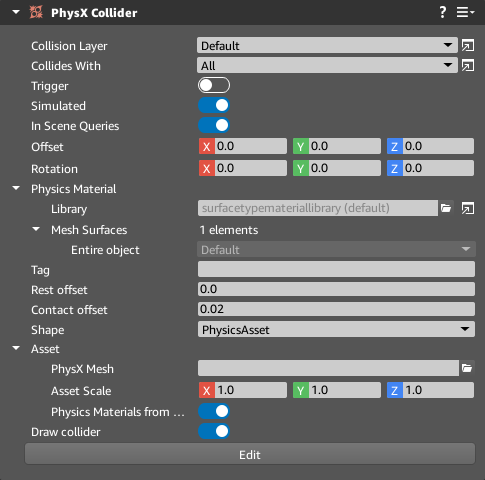
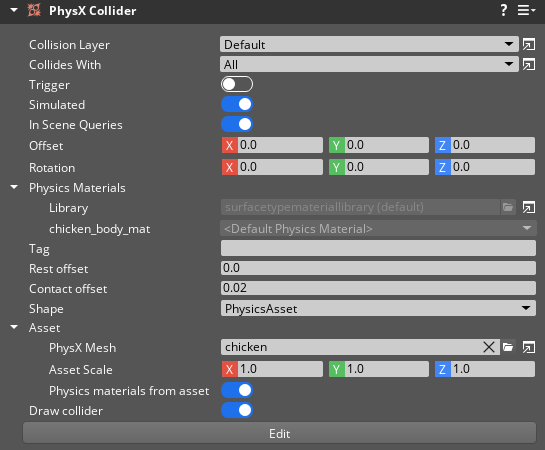
Update Physics Materials O3DE documentation

diff --git a/content/docs/user-guide/components/reference/physx-collider.md b/content/docs/user-guide/components/reference/physx-collider.md
@@ -50,11 +50,11 @@ Local offset position of the collider, relative to the entity\.
 ****Rotation****
 Local rotation of the collider about the **Offset** of the PhysX collider component\.
 
-****Physics Material \- Library****
-Set the physics material library for this collider\.
+****Library (Physics Materials)****
+The physics material library of the project\.
 
-****Physics Material \- Mesh Surfaces****
-Choose a material from the physics material library for this collider\. A collider can have multiple materials assigned\. For more information, see [Physics materials](/docs/user-guide/interactivity/physics/nvidia-physx/materials/)\.
+****Slots (Physics Materials)****
+Choose a physics material for each material of this collider\. A collider can have multiple materials assigned\. For more information, see [Physics materials](/docs/user-guide/interactivity/physics/nvidia-physx/materials/)\.
 
 ****Tag****
 Set a tag for this collider\. Tags can be used to quickly identify components in script or code\.
@@ -70,37 +70,47 @@ Shape of the collider\. A collider can be a primitive shape or a physics asset\.
 To use a primitive shape, choose **Box**, **Sphere**, or **Capsule**\. For more information, see [Primitive colliders](#primitive-colliders)\.
 To use a physics asset, choose **Physics Asset**\. For more information, see [Physics asset colliders](#physics-asset-colliders)\.
 
-****PhysX Mesh** \(Physics Asset shape\)**
+****Physics Asset shape****
+
+![\[PhysX Collider component interface, Physics Asset.\]](/images/user-guide/component/physx/physx/ui-physx-collider-A-0.png)
+
+**PhysX Mesh**
 Assign a physics asset to the collider\. For more information, see [FBX Settings PhysX export](/docs/user-guide/assets/fbx-settings/physx-export/)\.
-
-![\[PhysX Collider component interface, Sphere.\]](/images/user-guide/component/physx/physx/ui-physx-collider-A-1.png)
-
-****Radius** \(Sphere shape\)**
-Radius multiplier of the sphere collider\. The size of the sphere primitive is the **Radius** multiplied by the largest value in the **Scale** property in the **[Transform](/docs/user-guide/components/reference/transform/)** component\.
-
-![\[PhysX Collider component interface, Box.\]](/images/user-guide/component/physx/physx/ui-physx-collider-A-2.png)
-
-**Dimensions** \(Box shape\)
-Width, depth, and height of the box collider\.
-
-![\[PhysX Collider component interface, Capsule.\]](/images/user-guide/component/physx/physx/ui-physx-collider-A-3.png)
-
-**Height** \(Capsule shape\)
-Height of the capsule primitive shape\. The height property of the capsule must be at least twice the radius property\. For example, if the radius of the capsule is **5\.0**, the minimum height is **10\.0**\.
-
-**Radius** \(Capsule shape\)
-Radius of the capsule primitive shape\. The radius property of the capsule must be no greater than half the height property\. For example, if the height of the capsule is **10\.0**, the maximum radius is **5\.0**\.
 
 **Asset Scale**
 Scale the collider shape independent of the entity\.
 
-**Physics Materials from Mesh**
-When the **Physics Asset** shape is selected, and **Physics Materials from Mesh** is enabled, the physics material for this collider is automatically set based on the surface type in the mesh's material\. If the surface type in the mesh's material doesn't exist in the **Physics Material \- Library**, the **Physics Material \- Mesh Surface** is set to default\. The collider **Mesh Surfaces** properties cannot be edited while this option is enabled\.
+**Physics Materials from Asset**
+When the **Physics Asset** shape is selected, and **Physics Materials from Asset** is enabled, the physics materials for this collider are automatically set based on the Physics Materials from the mesh's PhysX asset (see [FBX Settings PhysX tab](/docs/user-guide/assets/fbx-settings/settings-physx-tab/))\. If the physics material doesn't exist in the **Physics Material \- Library** the default physics material from **PhysX Configuration** will be used\. The physics materials cannot be edited while this option is enabled\.
 
-**Draw Collider**
+****Sphere shape****
+
+![\[PhysX Collider component interface, Sphere.\]](/images/user-guide/component/physx/physx/ui-physx-collider-A-1.png)
+
+**Radius**
+Radius multiplier of the sphere collider\. The size of the sphere primitive is the **Radius** multiplied by the largest value in the **Scale** property in the **[Transform](/docs/user-guide/components/reference/transform/)** component\.
+
+****Box shape****
+
+![\[PhysX Collider component interface, Box.\]](/images/user-guide/component/physx/physx/ui-physx-collider-A-2.png)
+
+**Dimensions**
+Width, depth, and height of the box collider\.
+
+****Capsule shape****
+
+![\[PhysX Collider component interface, Capsule.\]](/images/user-guide/component/physx/physx/ui-physx-collider-A-3.png)
+
+**Height**
+Height of the capsule primitive shape\. The height property of the capsule must be at least twice the radius property\. For example, if the radius of the capsule is **5\.0**, the minimum height is **10\.0**\.
+
+**Radius**
+Radius of the capsule primitive shape\. The radius property of the capsule must be no greater than half the height property\. For example, if the height of the capsule is **10\.0**, the maximum radius is **5\.0**\.
+
+****Draw Collider****
 Render the collider in the viewport\. Enabled by default\.
 
-**Edit**
+****Edit****
 Enable collider component mode to edit properties of the collider in the viewport using manipulators\.
 
 ## Static PhysX entities {#static-physx-entities}

diff --git a/content/docs/user-guide/components/reference/physx-character-controller.md b/content/docs/user-guide/components/reference/physx-character-controller.md
@@ -40,19 +40,19 @@ The **PhysX Character Controller** has the following component properties\.
 | --- | --- |
 |  **Collision Layer**  |  Collision layer assigned to the controller\. The default is **Default**\.  |
 |  **Collides With**  |  Collision layers that this character controller collides with\. Possible values are those that you define in the collision groups section of the PhysX configuration\.  You can specify the following values:   The collision filters determine whether dynamic objects collide with the controller\. A separate set of filters control what objects can impede the character from moving\. The movement filters are currently hard\-coded so that static objects obstruct character movement\.   |
-| Material Library |  [PhysX material](/docs/user-guide/interactivity/physics/nvidia-physx/materials/) assigned to this character controller\.   |
-| Material Slot |  Specifies a material from the material library\. To select a material from the library, click the drop\-down list\. The default is the first value configured\.  If the material library is empty, this option does not appear and the default material values \(`0.5` and average for all parameters\) are used\.   |
+|  **Library (Physics Materials)** |  The physics material library of the project\.   |
+|  **Slot (Physics Materials)** |  Choose a physics material for this character controller collider\.   |
 |  **[Maximum Slope Angle](#component-physx-character-controller-maximum-slope-angle)**  |  Angle in degrees of the largest slope that the character controller can climb\.   |
 |  **[Step Height](#component-physx-character-controller-step-height)**  |  Height of steps in meters that the character controller can traverse\.   |
 |  **Minimum Movement Distance**  |  Distance in meters below which the controller doesn't attempt to move\. Used to avoid jittering\.   |
 |  **Collider Tag**  |  A tag string used to identify the collider associated with the character controller\.  |
 |  **Slope Behavior**  |  Behavior of the controller on surfaces above the maximum slope\.  You can specify the following values:  The default is **Prevent Climbing**\.  |
-| [Contact Offset](#component-physx-character-controller-contact-offset) |  Additional distance in meters beyond the controller that is monitored for potential contact\. Used for smoother contact resolution\.   |
-| Scale |  Scales the size of the collider created in PhysX relative to the dimensions specified for the controller\. A value slightly smaller than `1` is recommended\.  The default is `0.8`\.  |
-| [Shape](#component-physx-character-controller-shape) | Shape of the character controller\.You can specify the following values:The default is Capsule\. |
-| Height \(Capsule Only\) |  Height of the capsule in meters\.  |
-| Radius \(Capsule Only\) |  Radius of the capsule in meters\.  |
-| Dimensions \(Box Only\) |  The x, y, and z dimensions of the box in meters\.  |
+| **[Contact Offset](#component-physx-character-controller-contact-offset)** |  Additional distance in meters beyond the controller that is monitored for potential contact\. Used for smoother contact resolution\.   |
+| **Scale** |  Scales the size of the collider created in PhysX relative to the dimensions specified for the controller\. A value slightly smaller than `1` is recommended\.  The default is `0.8`\.  |
+| **[Shape](#component-physx-character-controller-shape)** | Shape of the character controller\.You can specify the following values:The default is Capsule\. |
+| **Height (Capsule Only)** |  Height of the capsule in meters\.  |
+| **Radius (Capsule Only)** |  Radius of the capsule in meters\.  |
+| **Dimensions (Box Only)** |  The x, y, and z dimensions of the box in meters\.  |
 
 ### Maximum Slope Angle {#component-physx-character-controller-maximum-slope-angle}
 

diff --git a/content/docs/user-guide/interactivity/physics/nvidia-physx/materials.md b/content/docs/user-guide/interactivity/physics/nvidia-physx/materials.md
@@ -98,7 +98,7 @@ You can specify the paremeter of the **Default Physics Material** in **PhysX Con
 
 Physics materials can be assigned to entire PhysX colliders, or on a per\-face basis if the PhysX mesh is a triangle mesh\.
 
-When the **Physics Asset** shape is selected in **PhysX Collider** component, and the **Physics Materials from Asset** property is enabled, the physics materials for this collider is automatically set based on the Physics Materials from the mesh's PhysX asset (see [FBX Settings PhysX tab](/docs/user-guide/assets/fbx-settings/settings-physx-tab/))\. To manually set the physics materials, uncheck the **Physics Materials from Asset** property and select the physics materials from the **Physics Materials** property list to assign it\.
+When the **Physics Asset** shape is selected in **PhysX Collider** component, and the **Physics Materials from Asset** property is enabled, the physics materials for this collider are automatically set based on the Physics Materials from the mesh's PhysX asset (see [FBX Settings PhysX tab](/docs/user-guide/assets/fbx-settings/settings-physx-tab/))\. To manually set the physics materials, uncheck the **Physics Materials from Asset** property and select the physics materials from the **Physics Materials** property list to assign it\.
 
 ![\[PhysX Collider, setting the physics materials.\]](/images/user-guide/physx/physx/ui-physx-material-F.png)
 

diff --git a/content/docs/user-guide/components/reference/physx-shape-collider.md b/content/docs/user-guide/components/reference/physx-shape-collider.md
@@ -54,11 +54,11 @@ When enabled, this shape collider will be part of the physics simulation\.
 ****In Scene Queries****
 When enabled, this shape collider can be queried for raycasts, shapecasts and overlap\.
 
-****Physics Material \- Library****
-Set the physics material library for this shape collider\.
+****Library (Physics Materials)****
+The physics material library of the project\.
 
-****Physics Material \- Mesh Surfaces****
-Choose a material from the physics material library for this shape collider\.
+****Slot (Physics Materials)****
+Choose a physics material for this shape collider\.
 
 ****Tag****
 Set a tag for this shape collider\. Tags can be used to quickly identify components in script or code\.
